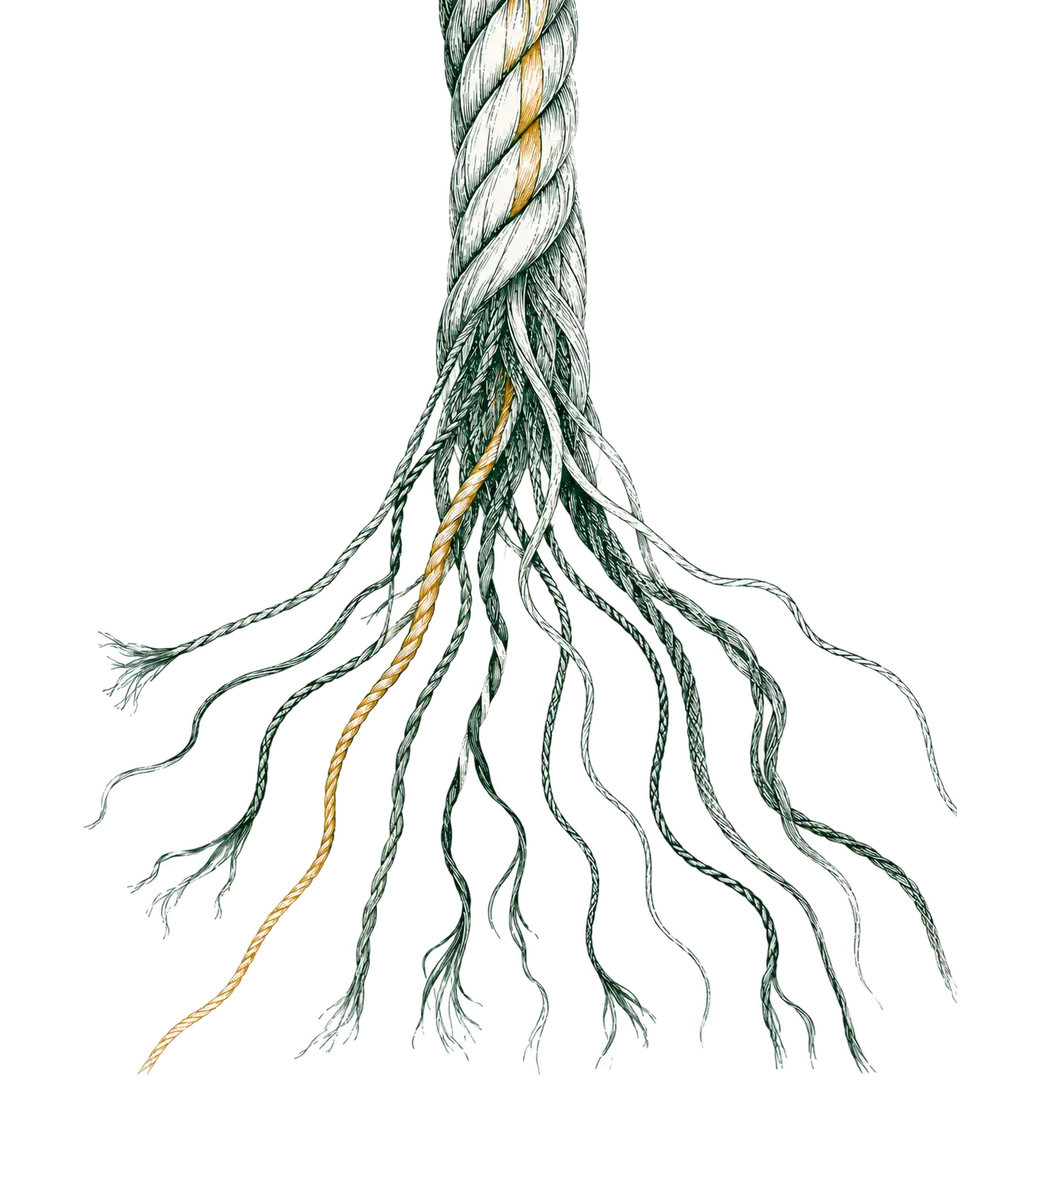
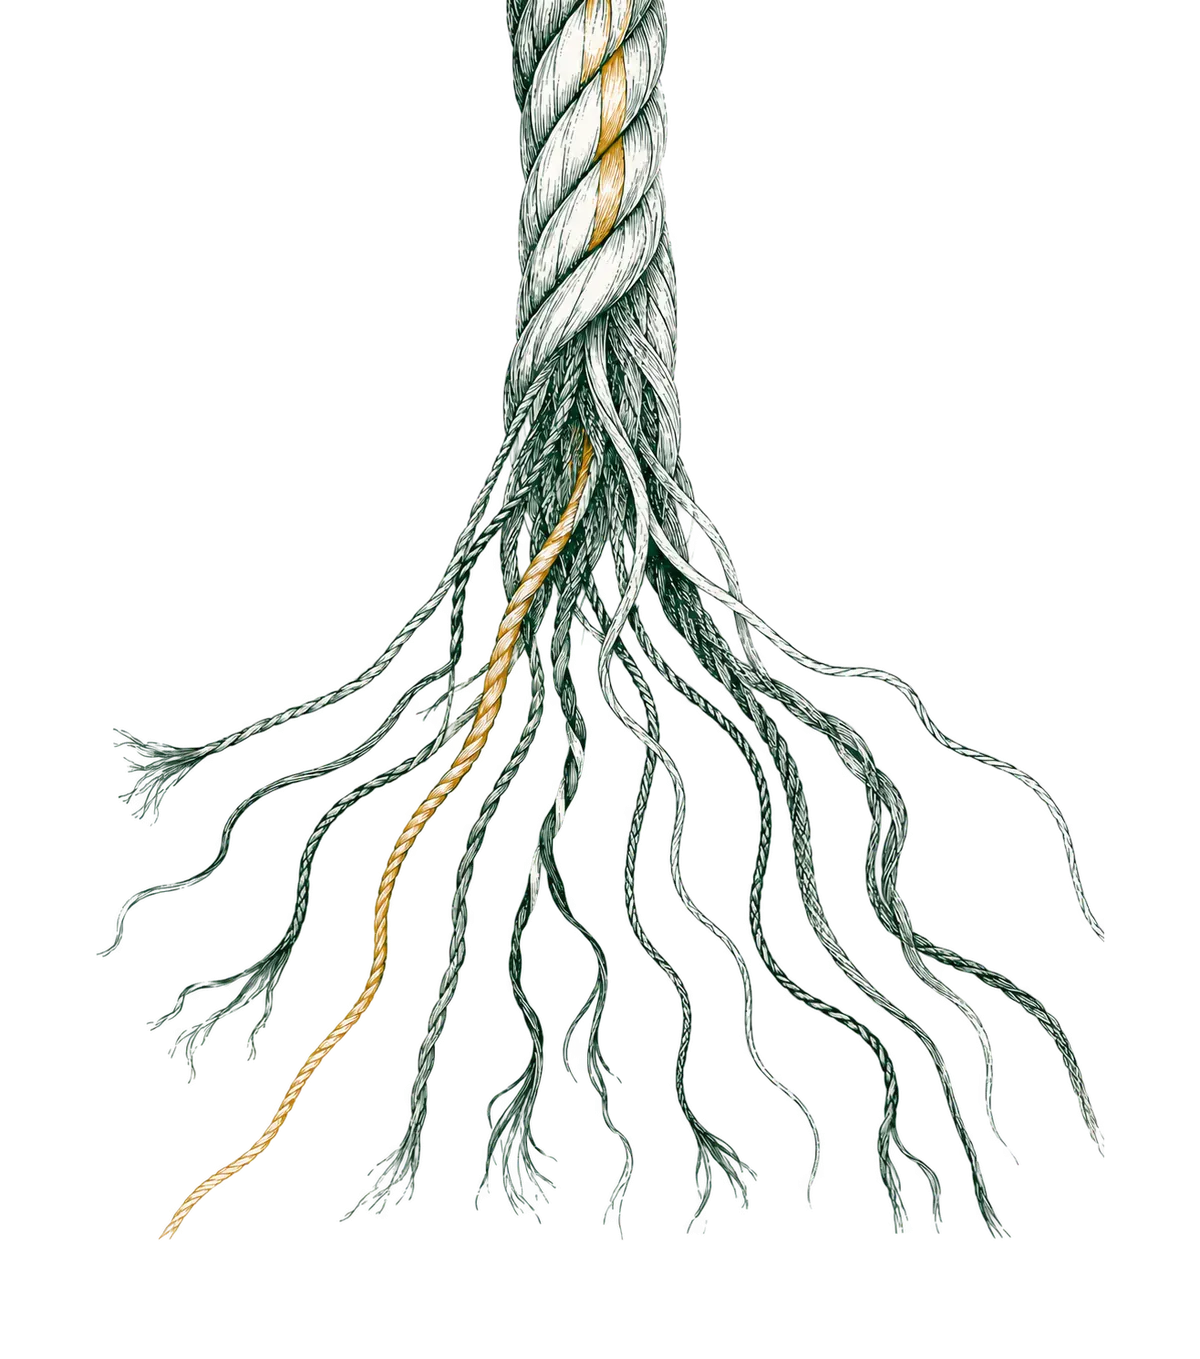
fix(home): the hero fade actually applies, and the art scales with the screen
Two defects, both invisible to every gate the repo had, both on the site's
flagship image.

**The fade never existed.** The band's mask lived in the component's scoped
`<style>` as `.hero-art img`, and Astro scopes a selector by requiring its own
`data-astro-cid` on *every* compound — so it compiled to
`.hero-art[data-astro-cid-…] img[data-astro-cid-…]`. The `<img>` comes from
`Illustration.astro` and carries that component's id instead, so the rule matched
nothing and the top of the band was a hard horizontal cut across the fibres for
two passes at this component. `:global(img)` on the descendant keeps the scope on
the wrapper and lets the rule reach the child's element. The fade is also a touch
longer now (opaque at 62% instead of 55%), and it comes off at `lg`, where the art
is the whole drawing hanging from the header.

**The desktop art never grew.** It was `lg:h-full w-auto`: a percentage height
resolves against the parent's height, the parent is a grid item whose height comes
from the row, and that is indefinite during layout — so `h-full` fell back to
`auto` and the drawing rendered at its intrinsic width on every screen. A 27-inch
display got exactly what a 13-inch laptop did. The height now comes from
`calc(100dvh - var(--cabuya-chrome-height))`, the same expression the section's
`min-h` uses, so `object-contain` scales the drawing to whichever of the fold or
the column binds; from `xl` the art column also bleeds into the container's own
[…]

diff --git a/tests/unit/lib/home-sections.test.ts b/tests/unit/lib/home-sections.test.ts
@@ -244,7 +244,7 @@ describe('hero call-to-action honesty', () => {
      * flagship drawing did not exist for most readers. The wrapper must be
      * visible by default and only *change* at `lg`.
      */
-    const wrapper = source.match(/<div class="([^"]*lg:self-stretch[^"]*)"/);
+    const wrapper = source.match(/class="([^"]*lg:self-stretch[^"]*)"/);
     expect(wrapper, 'the art column wrapper').not.toBeNull();
     expect(wrapper?.[1]).not.toContain('hidden');
   });
@@ -259,11 +259,42 @@ describe('hero call-to-action honesty', () => {
      */
     expect(source).toContain('object-cover object-bottom');
     expect(source).toContain('lg:object-contain lg:object-top');
+    /*
+     * `:global(img)` is not cosmetic. Astro scopes `.hero-art img` to
+     * `.hero-art[data-astro-cid-…] img[data-astro-cid-…]`, and the `<img>` comes
+     * from `Illustration.astro` — it carries that component's id, never this
+     * one's, so the rule matched nothing and the fade silently did not exist for
+     * two passes at this component. Asserting the selector shape is the only way
+     * a source-level test catches that class of failure.
+     */
     expect(source).toMatch(
-      /\.hero-art img\s*\{[\s\S]*mask-image: linear-gradient/
+      /\.hero-art :global\(img\)\s*\{[\s\S]*mask-image: linear-gradient/
     );
     expect(source).toMatch(
-      /@media \(min-width: 1024px\)[\s\S]*\.hero-art img\s*\{[\s\S]*mask-image: none/
+      /@media \(min-width: 1024px\)[\s\S]*\.hero-art :global\(img\)\s*\{[\s\S]*mask-image: none/
+    );
+  });
+
+  it('sizes the desktop art from the fold, not from a percentage height', () => {
+    /*
+     * `lg:h-full` resolved against an indefinite grid-row height and fell back to
+     * `auto`, so the drawing rendered at its intrinsic width on every screen and a
+     * 27-inch display got what a 13-inch laptop did. The height has to come from
+     * the same `dvh` expression the section's `min-h` uses, and from `xl` the
+     * column has to be allowed past the container's own 80rem so a wide screen can
+     * fill the fold. `illustrations:check` measures the outcome; this catches the
+     * mechanism going back.
+     */
+    const artClasses = source.match(/class="([^"]*object-cover[^"]*)"/)?.[1];
+    expect(artClasses, 'the illustration class list').toBeTypeOf('string');
+    expect(artClasses).toContain(
+      'lg:h-[calc(100dvh-var(--cabuya-chrome-height))]'
+    );
+    /* Only in the class list — the comment above it explains the old `h-full`. */
+    expect(artClasses).not.toMatch(/\blg:h-full\b/);
+    expect(artClasses).toContain('lg:max-w-none');
+    expect(source).toMatch(
+      /xl:-mr-\[max\(0px,calc\(\(100vw-80rem\)\/2-1\.5rem\)\)\]/
     );
   });
 });

diff --git a/tests/unit/lib/illustrations.test.ts b/tests/unit/lib/illustrations.test.ts
@@ -36,9 +36,18 @@ import {
 const PUBLIC = join(process.cwd(), 'public');
 const VISUALS = join(PUBLIC, 'images/visuals');
 
-/** 1x ceilings in KB. Marks are punctuation and get a tenth of the budget. */
+/**
+ * 1x ceilings in KB. Marks are punctuation and get a tenth of the budget.
+ *
+ * The hero's is the one raised ceiling and it buys sharpness where the drawing
+ * is largest: from `lg` the art is height-driven and fills the fold, so a 27-inch
+ * display paints it around 790 px wide and a retina laptop asks for ~1400 device
+ * pixels. It is also desktop-only weight — a phone fetches the narrow framing
+ * (`hero-cordage-mobile`, well inside 96 KB) through the `<picture>`'s `media`
+ * source, so the landing's mobile LCP does not pay for it.
+ */
 const BUDGET_KB: Record<string, number> = {
-  'hero-cordage': 96,
+  'hero-cordage': 128,
   'join-open-knot': 80,
   'portal-loom': 80,
   'quickstart-first-thread': 60,

diff --git a/src/lib/illustrations.ts b/src/lib/illustrations.ts
@@ -63,10 +63,15 @@ export const ILLUSTRATIONS = {
   /** HP-01 — the landing hero. The one asset that is an LCP candidate. */
   'hero-cordage': {
     src: `${VISUALS}/home/hero-cordage.webp`,
-    srcset: pair(`${VISUALS}/home/hero-cordage`, 520),
-    width: 520,
-    height: 589,
-    sizes: '(min-width: 1024px) 34vw, (min-width: 640px) 60vw, 84vw',
+    srcset: pair(`${VISUALS}/home/hero-cordage`, 600),
+    width: 600,
+    height: 679,
+    /*
+     * Below `lg` the art is a full-bleed band, so it is the viewport wide. From
+     * `lg` it is height-driven and fills the fold, which on a wide screen is
+     * around half the viewport once the column bleeds into the container's slack.
+     */
+    sizes: '(min-width: 1024px) 55vw, 100vw',
     mobile: {
       src: `${VISUALS}/home/hero-cordage-mobile.webp`,
       srcset: pair(`${VISUALS}/home/hero-cordage-mobile`, 480),

diff --git a/docs/visuals/prompts/01-hp-01-hero-cordage.md b/docs/visuals/prompts/01-hp-01-hero-cordage.md
@@ -37,7 +37,9 @@
   3. **Right edge.** 26 pixels of one filament graze the right border instead of feathering out. Invisible at display size; fix in a regeneration, not with a crop, which would break the 4:5.
 - **Verified:** four corners fully transparent (alpha 0) · zero text or glyphs · exactly one gold strand, traceable end to end · reads at 520 px · ratio 0.8003 vs 0.8 target.
 - **Re-framed and re-cut, 2026-08-17.** Two framings of the same drawing, both produced by `scripts/build-illustrations.mjs` and served through one `<picture>` with a `media` source, so exactly one file is fetched on the site's LCP surface:
-  - **`hero-cordage.webp` 520 × 589 (75 KB) + `-2x` 1040 × 1178 (204 KB)**, from `lg` up. Padded on three sides, flush at the top, so the rope still bleeds off the top edge and reads as descending out of the site header. Rendered with `object-contain object-top`, full drawing, no mask.
+  - **`hero-cordage.webp` 600 × 679 (94 KB) + `-2x` 1200 × 1359 (259 KB)**, from `lg` up. Padded on three sides, flush at the top, so the rope bleeds off the top edge and reads as descending out of the site header. Rendered with `object-contain object-top`, whole drawing, no mask. The raised weight ceiling (128 KB at 1x, against 96 for the pack) is deliberate and desktop-only: this is the one asset that paints past 1200 px, and a 520-wide `1x` left the 2x file below 1:1 on a retina laptop — softness in exactly the fine filaments the drawing is made of.
   - **`hero-cordage-mobile.webp` 480 × 543 (66 KB) + `-2x` 960 × 1087 (178 KB)**, below `lg`. Flush at the *bottom* instead: the narrow layout is a full-bleed band 208 px tall (256 px from `sm`) that crops the drawing in CSS with `object-cover object-bottom` and masks everything above the fan into the ground, so a margin under the frayed ends would show as a gap inside the band.
+- **Sized from the fold, not from `h-full`.** The desktop framing spent two passes rendering at its intrinsic width on every screen — a 27-inch display got exactly what a 13-inch laptop did — because `lg:h-full` resolves a percentage against the parent's height, the parent is a grid item whose height comes from the row, and that is indefinite during layout: it silently became `auto`. The height now comes from `calc(100dvh - var(--cabuya-chrome-height))`, the same expression the section's `min-h` uses, so `object-contain` scales the drawing to whichever of the fold or the column binds. From `xl` the art column also bleeds into the container's own slack (`-mr-[max(0px,calc((100vw-80rem)/2-1.5rem))]`), which is what lets a wide screen fill the fold instead of stopping at 80 rem. Measured: 528 × 598 at 1024 × 768, 696 × 788 at 1440 × 900, 872 × 987 at 1920 × 1080, 1192 × 1349 at 2560 × 1440 — in every case the fibres end below the buttons. `illustrations:check` now fails if the painted drawing drops under 70% of the fold from `lg` up.
+- **The fade was a no-op for two passes, and that is worth remembering.** The band's mask lived in the component's scoped `<style>` as `.hero-art img`, and Astro scopes a selector by requiring its own `data-astro-cid` on *every* compound — the `<img>` comes from `Illustration.astro` and carries that component's id instead, so the rule matched nothing. The band looked cut across the top the whole time. It is `.hero-art :global(img)` now, and a test asserts the selector shape, because "the CSS is there" is not the same as "the CSS applies".
 - **Why the phone gets a band and not the whole drawing.** It was tried both ways. A 4:5 drawing scaled to fit a phone column is a thumbnail of a hero rather than a hero — every fibre goes to a hairline and the gold strand disappears. The band keeps the full width and the line weight, crops height from the top, and fades the top third into the page: the same "feather into the paper" the brief asks of every edge, done with an alpha mask so it works on both grounds. What it must never go back to is `hidden lg:flex`, which is how the site's flagship image spent its first weeks not existing for most readers.
 - **Status:** integrated

diff --git a/docs/visuals/INDEX.md b/docs/visuals/INDEX.md
@@ -88,6 +88,16 @@ one declared box is honest for both, and one fetch either way. Its entry has the
 reasoning; the short version is that a 4:5 drawing shrunk into a phone column is
 a thumbnail of a hero, and `hidden lg:block` is not an option.
 
+It is also the entry that taught the pack two lessons the gates now carry.
+**Artwork can be present and still be wrong**: the desktop framing rendered at its
+intrinsic width on every screen for two passes, because `h-full` resolves against
+an indefinite grid-row height and quietly became `auto` — `illustrations:check`
+measures the *painted* drawing against the fold now. And **CSS that exists is not
+CSS that applies**: the band's fade sat in a scoped `<style>` as `.hero-art img`,
+which Astro compiles to require its own `data-astro-cid` on the `<img>` — an
+element that belongs to `Illustration.astro`. Two visual defects, neither visible
+to a build, both now covered.
+
 ## What is left
 
 Nothing is blocked. `OG-02` (per-section share cards) is the only entry not
